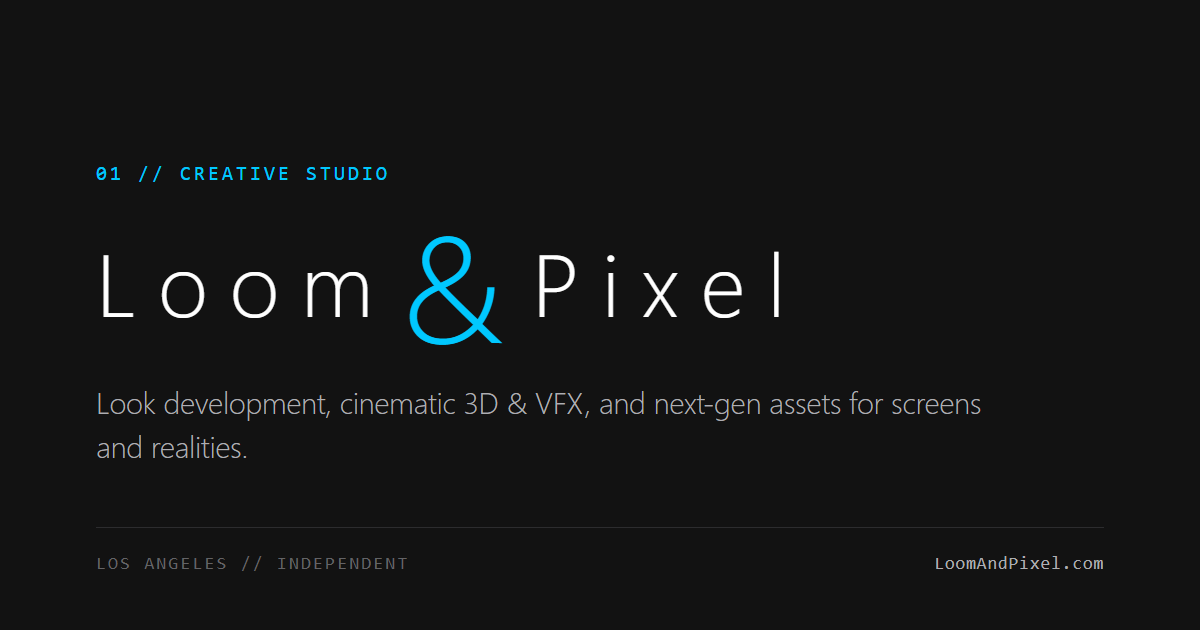
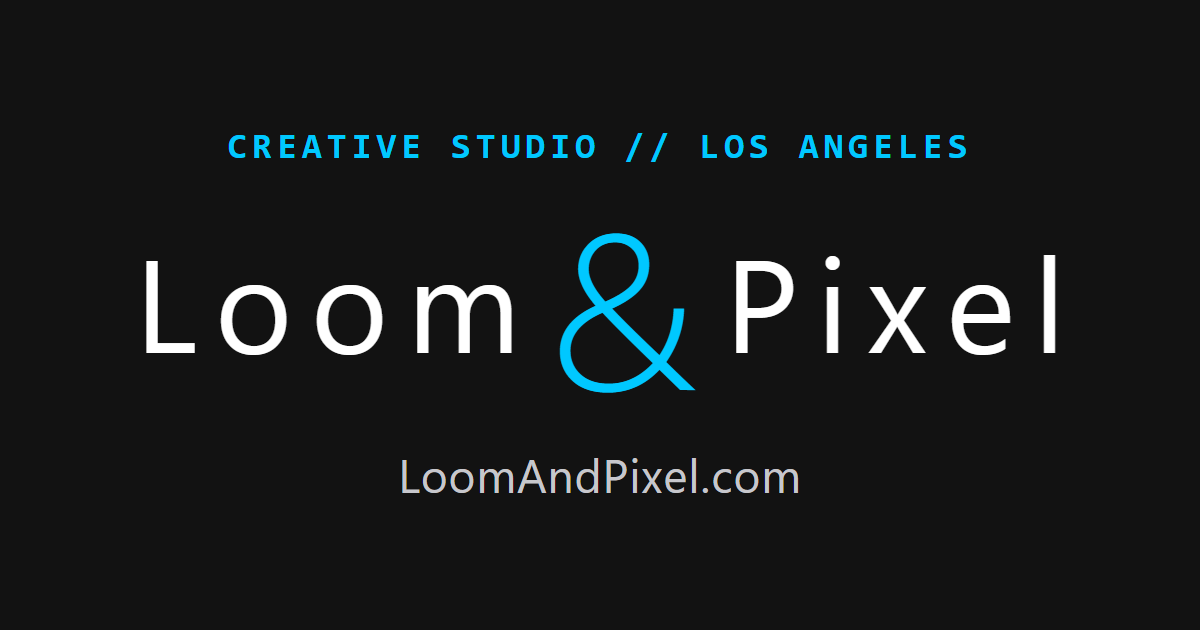
Redesign link preview card for legibility on phones
Simplify to label, logo, and domain with much larger type so the card
reads at thumbnail size. Version the og:image URL to bust caches.

diff --git a/_includes/head.html b/_includes/head.html
@@ -20,7 +20,7 @@
 <meta property="og:title" content="{{ page_title | escape }}">
 <meta property="og:description" content="{{ page_description | escape }}">
 <meta property="og:url" content="{{ page.url | absolute_url }}">
-<meta property="og:image" content="{{ '/assets/img/og-image.png' | absolute_url }}">
+<meta property="og:image" content="{{ '/assets/img/og-image.png' | absolute_url }}?v=2">
 <meta property="og:image:width" content="1200">
 <meta property="og:image:height" content="630">
 <meta property="og:image:alt" content="Loom & Pixel — independent creative studio, Los Angeles">
